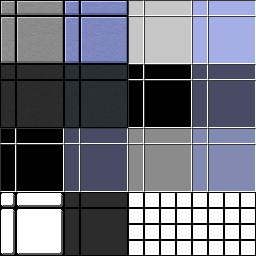
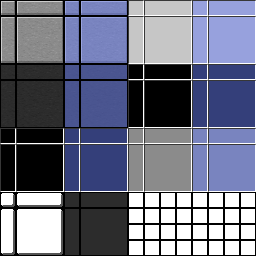
Refactor sheet packing algorithm to optimize space utilization; implement first-fit placement strategy for texture sheets

diff --git a/gui_builder_app/app.py b/gui_builder_app/app.py
@@ -2339,28 +2339,62 @@ class GuiBuilderApp:
             for block_key, it in unique_blocks.items():
                 items.append({"block_key": block_key, **it})
 
-            # Sort for simple shelf packing.
-            items.sort(key=lambda it: (it["h"], it["w"]), reverse=True)
+            # Sort big-to-small to reduce fragmentation. Placement still uses a
+            # top-left first-fit search, so small items will fill earlier gaps.
+            items.sort(key=lambda it: (int(it["h"]) * int(it["w"]), it["h"], it["w"]), reverse=True)
 
             max_px = int(self.EXPORT_SHEET_PX)
             if max_px < TILE_PX:
                 max_px = 512
 
             sheets: List[Dict[str, Any]] = []
-            cur_items: List[Dict[str, Any]] = []
-            x = 0
-            y = 0
-            row_h = 0
 
-            def flush_sheet() -> None:
-                nonlocal cur_items, x, y, row_h
-                if not cur_items:
-                    return
-                sheets.append({"w": max_px, "h": max_px, "placements": cur_items})
-                cur_items = []
-                x = 0
-                y = 0
-                row_h = 0
+            sheet_tiles = max(1, int(max_px) // int(TILE_PX))
+
+            def _new_sheet() -> Dict[str, Any]:
+                return {
+                    "w": max_px,
+                    "h": max_px,
+                    "placements": [],
+                    "occ": [[False for _ in range(sheet_tiles)] for _ in range(sheet_tiles)],
+                }
+
+            def _tiles_needed(px: int) -> int:
+                return max(1, (int(px) + int(TILE_PX) - 1) // int(TILE_PX))
+
+            def _can_place(occ: List[List[bool]], x0: int, y0: int, w_t: int, h_t: int) -> bool:
+                if x0 < 0 or y0 < 0:
+                    return False
+                if x0 + w_t > sheet_tiles or y0 + h_t > sheet_tiles:
+                    return False
+                for yy in range(y0, y0 + h_t):
+                    row = occ[yy]
+                    for xx in range(x0, x0 + w_t):
+                        if row[xx]:
+                            return False
+                return True
+
+            def _mark(occ: List[List[bool]], x0: int, y0: int, w_t: int, h_t: int) -> None:
+                for yy in range(y0, y0 + h_t):
+                    row = occ[yy]
+                    for xx in range(x0, x0 + w_t):
+                        row[xx] = True
+
+            def _place_in_sheet(sheet: Dict[str, Any], it: Dict[str, Any]) -> bool:
+                w = int(it["w"])
+                h = int(it["h"])
+                w_t = _tiles_needed(w)
+                h_t = _tiles_needed(h)
+                occ = sheet["occ"]
+
+                # Top-left first-fit.
+                for y0 in range(0, sheet_tiles - h_t + 1):
+                    for x0 in range(0, sheet_tiles - w_t + 1):
+                        if _can_place(occ, x0, y0, w_t, h_t):
+                            _mark(occ, x0, y0, w_t, h_t)
+                            sheet["placements"].append({"x": x0 * TILE_PX, "y": y0 * TILE_PX, "item": it})
+                            return True
+                return False
 
             for it in items:
                 w = int(it["w"])
@@ -2368,23 +2402,27 @@ class GuiBuilderApp:
 
                 # Oversized images get their own dedicated sheet.
                 if w > max_px or h > max_px:
-                    flush_sheet()
                     sheets.append({"w": w, "h": h, "placements": [{"x": 0, "y": 0, "item": it}]})
                     continue
 
-                if x + w > max_px:
-                    x = 0
-                    y += row_h
-                    row_h = 0
+                placed = False
+                for sh in sheets:
+                    if sh.get("occ") is None:
+                        # Dedicated oversized sheet; skip.
+                        continue
+                    if _place_in_sheet(sh, it):
+                        placed = True
+                        break
 
-                if y + h > max_px:
-                    flush_sheet()
+                if not placed:
+                    sh = _new_sheet()
+                    _place_in_sheet(sh, it)
+                    sheets.append(sh)
 
-                cur_items.append({"x": x, "y": y, "item": it})
-                x += w
-                row_h = max(row_h, h)
-
-            flush_sheet()
+            # Strip occupancy before rendering/writing (keep output JSON clean).
+            for sh in sheets:
+                if "occ" in sh:
+                    del sh["occ"]
 
             # Index placements for fast lookup when writing the manifest.
             placement_index: Dict[Tuple[str, str, str, int, int], Dict[str, int]] = {}
